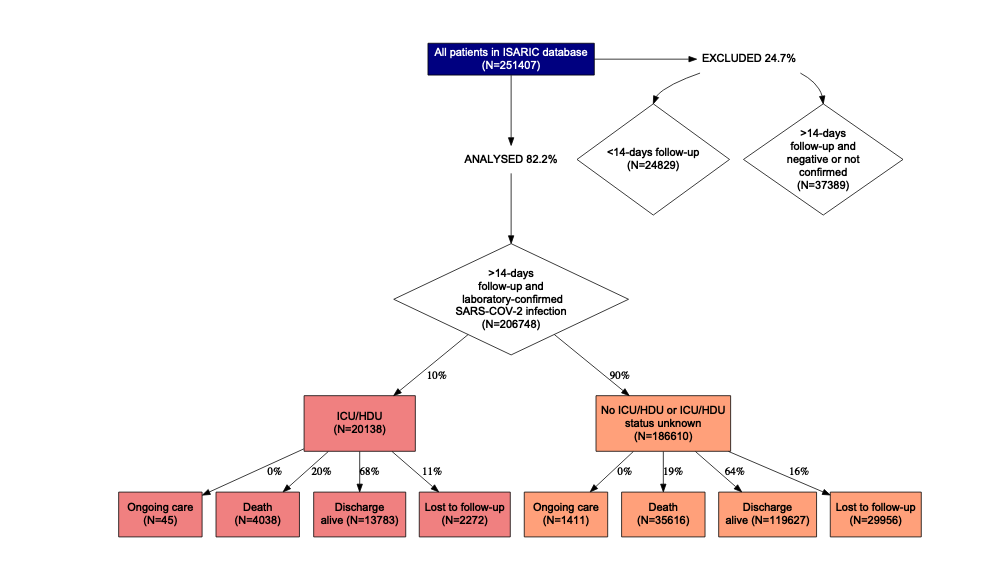
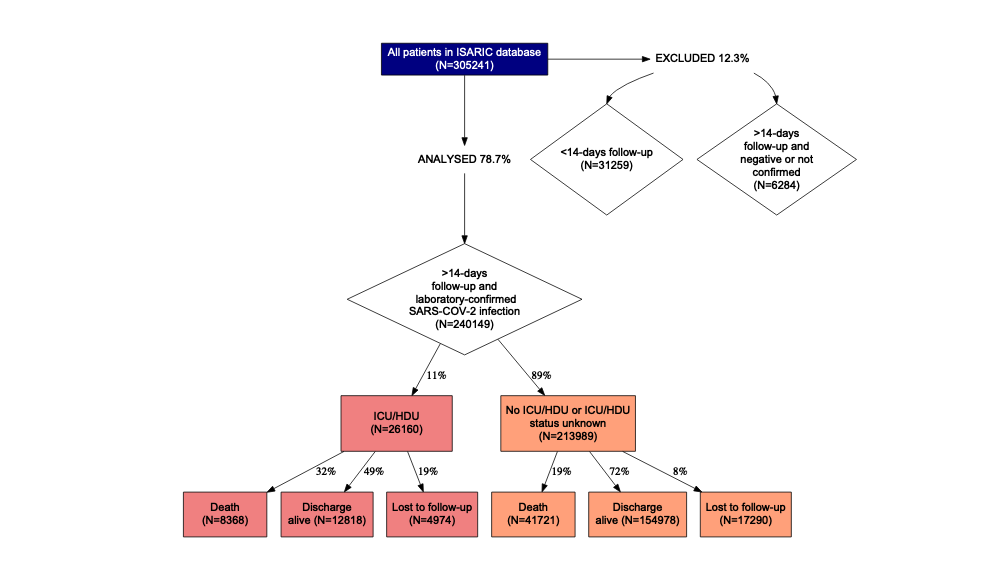
Move(?)

diff --git a/markdown/Summary_dashboard.md b/markdown/Summary_dashboard.md
@@ -24,18 +24,18 @@ We thank all of the data contributors for collecting standardised data during th
 
 Please note the following caveats. This is a dynamic report which captures new variables and information as our understanding of COVID-19 evolves. Please observe the total number of patients of each result to note variables with fewer data points. Information is incomplete for the patients who are still being treated. Furthermore, it is likely that that we received more cases of severely ill individuals than those with relatively less severe illness; outcomes from these data, such as the proportion dying, must therefore not be used to infer outcomes for the entire population of people who might become infected. Some patients may be participants in clinical trials of experimental interventions. Note the variation in patient numbers per country. Additional caveats are provided in the in the ‘Caveats’ section below.  
 
-Up to the date of this report, data have been entered for **305241** individuals from **735** sites across **58** countries.  
+Up to the date of this report, data have been entered for **305241** individuals from **1736** sites across **64** countries.  
 
 The analysis detailed in this report only includes individuals: 
 
-  1. for whom data collection commenced on or before 16 November 2020. (We have applied a 14-day rule to focus analysis on individuals who are more likely to have a recorded outcome. By excluding patients enrolled during the last 14 days, we aim to reduce the number of incomplete data records and thus improve the generalisability of the results and the accuracy of the outcomes;
+  1. for whom data collection commenced on or before 3 January 2021. (We have applied a 14-day rule to focus analysis on individuals who are more likely to have a recorded outcome. By excluding patients enrolled during the last 14 days, we aim to reduce the number of incomplete data records and thus improve the generalisability of the results and the accuracy of the outcomes;
   
 **AND**
 
   2. who have laboratory-confirmed SARS-COV-2 infection.
   
 The cohort satisfying the above criteria has **240149** cases.
-The below flow chart gives an overview of the cohort and outcomes as of 30 November 2020.
+The below flow chart gives an overview of the cohort and outcomes as of 17 January 2021.
 
 ## Demographics and presenting features
 Of these 240149 cases, 122993 are males and 116597 are females – sex is unreported for 559 cases. The minimum and maximum observed ages were 0 and 120 years respectively. The median age is 60 years.  
@@ -49,10 +49,10 @@ The observed symptoms on admission partly represent case definitions and policie
 ## Outcomes
 Outcomes have been recorded for 217885 patients (90.7%), consisting of 167796 recoveries and 50089 deaths. Outcome records are unavailable for 22264 patients.  
 
-**ICU/HDU**: A total of 26160 (11%) patients were admitted at some point of their illness into an intensive care unit (ICU) or high dependency unit (HDU), 51.1% on the day of admission. Of these, 8368 died, and 12818 have recovered and been discharged. Outcome records are unavailable for 4974 cases.
+**ICU/HDU**: Of the 136337 patients with data on ward admissions available, a total of 26160 (19%) patients were admitted at some point of their illness into an intensive care unit (ICU) or high dependency unit (HDU), 51.1% on the day of admission. Of these, 8368 died, and 12818 have recovered and been discharged. Outcome records are unavailable for 4974 cases.
 
 
-Approximately 51% of patients with complete records on ICU admission dates were admitted to ICU within the first day of hospital admission. The distribution of the number of days from admission to ICU admission is shown in Figure 11. The duration of stay in ICU/HDU had a mean of 10.8 days and a median of 7 (SD: 10.1 days) – estimated on only those cases with complete records for ICU/HDU duration or ICU/HDU start/end dates (N = 20607). 
+The distribution of the number of days from admission to ICU admission is shown in Figure 11. The duration of stay in ICU/HDU had a mean of 10.8 days and a median of 7 (SD: 10.1 days) – estimated on only those cases with complete records for ICU/HDU duration or ICU/HDU start/end dates (N = 20607). 
 
 ## Treatment
 Antibiotics were received by 98865/122526 (80.7%) patients, and 17479/122191 (14.3%) received antivirals. These treatment categories are not mutually exclusive since some patients received multiple treatments. (The denominators differ due to data completeness). 82304/134330 (61.3%) patients received some degree of oxygen supplementation: of these, 17118/127627 (13.4%) received NIV and 15163/133557 (11.4%) IMV.  
@@ -67,14 +67,7 @@ Corticosteroids were administered to 41581/127488 (32.6%) patients. This include
 
 
 
-\begin{figure}
-
-{\centering \includegraphics[width=1\linewidth]{Figs/unnamed-chunk-3-1} 
-
-}
-
-\caption{Overview of cohort and outcomes as of 30 November 2020.}\label{fig:unnamed-chunk-3}
-\end{figure}
+<img src="Figs/unnamed-chunk-3-1.png" title="Overview of cohort and outcomes as of 30 November 2020." alt="Overview of cohort and outcomes as of 30 November 2020." width="100%" style="display: block; margin: auto;" />
 
 
 
